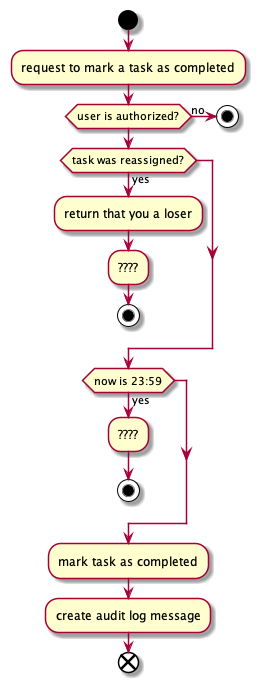
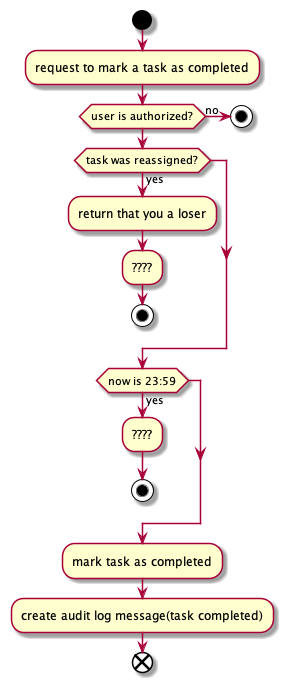
Homework-0 fixes (#1)
* Fixes

* Remove DS_Store

diff --git a/diagrams/Diagrams.md b/diagrams/Diagrams.md
@@ -16,7 +16,7 @@ TasksUI, AccoutingUI, AnalystsUI - Дашборды
 
 Модуль отвечает за доступ пользователей к различным частям системы
 
-## Calculator
+## EndDayProcessor
 
 Расчитывает в конце дня пользователей у которых положительный баланс, отправляем им уведомление и выставляет баланс в 0.
 
@@ -28,13 +28,20 @@ TasksUI, AccoutingUI, AnalystsUI - Дашборды
 - Детализацию по счету пользователя
 - Сколько заработал топ менеджмент в деньгах
 
+    ```bash
+    (sum(completed task amount) + sum(created task fee)) * -1
+    ```
+
 ## Audit message log receiver
+
+Принимает и хранит информацию обо всех audit message logs.
 
 Принимает сигналы о том, что произошло с задачей.
 
 - Создана
 - Завершена
 - Назначен исполнитель
+- Пользователь расчитан за день
 
 ## AnalystsProvider
 
@@ -49,3 +56,4 @@ TasksUI, AccoutingUI, AnalystsUI - Дашборды
 
 - Увеличить/Уменьшить счетчики того сколько менеджер заработал
 - Увеличить/Уменьшить счетчики того сколько работаник заработал
+- Сохранить транзакции для пользователя в Accounting модуле
